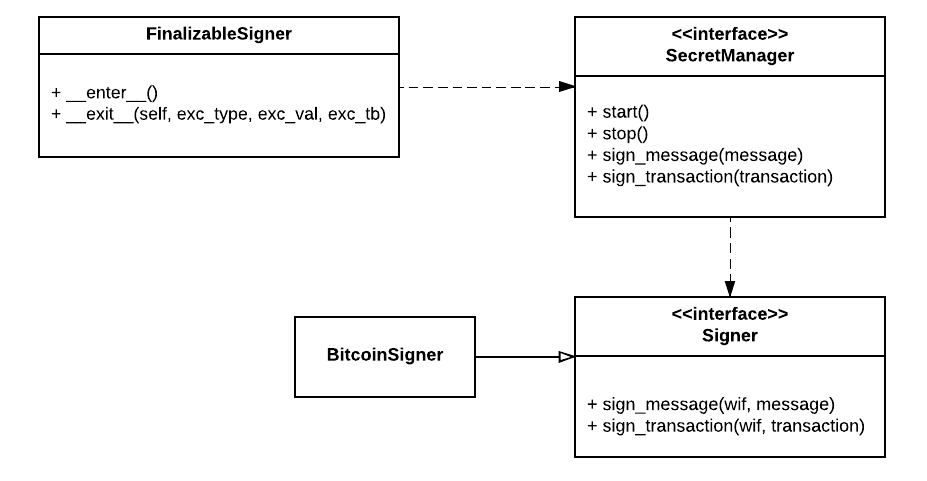
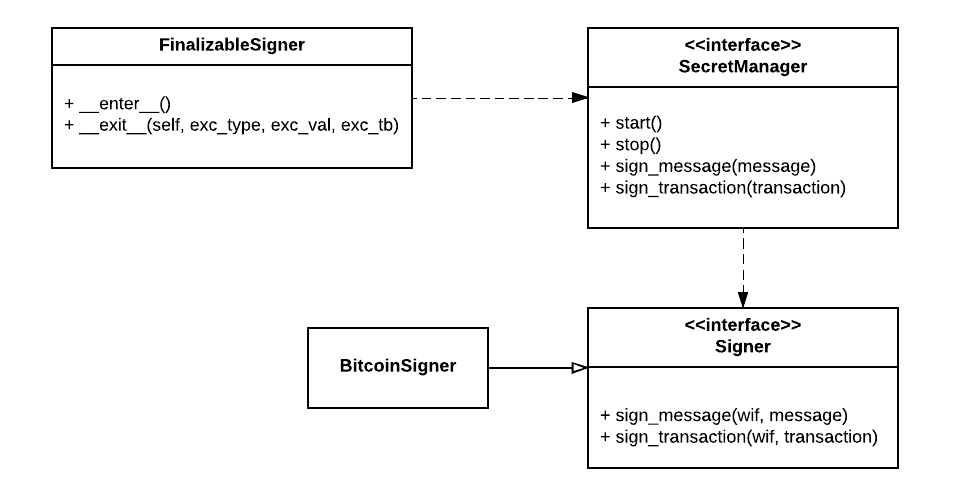
use pycoin b2h, h2b (#58)
* use pycoin b2h and h2b instead of custom hexlify, etc. Fix accidental image overwrite

* Version bump

diff --git a/tests/test_connectors.py b/tests/test_connectors.py
@@ -5,9 +5,9 @@ from bitcoin.core import COutPoint, lx, x, CScript
 from bitcoin.core.script import OP_EQUALVERIFY, OP_CHECKSIG, OP_DUP, OP_HASH160
 from bitcoin.wallet import P2PKHBitcoinAddress
 from mock import patch
+from pycoin.serialize import b2h
 
 from cert_issuer.connectors import BitcoindConnector
-from cert_issuer.helpers import hexlify
 
[2 lines of base64/hex data omitted]
@@ -61,7 +61,7 @@ class TestConnectors(unittest.TestCase):
         bc = BitcoindConnector('XTN')
         spendables = bc.spendables_for_address('mz7poFND7hVGRtPWjiZizcCnjf6wEDWjjT')
         self.assertEquals(len(spendables), 3)
-        self.assertEquals(hexlify(spendables[0].tx_hash),
+        self.assertEquals(b2h(spendables[0].tx_hash),
[1 lines of base64/hex data omitted]
         self.assertEquals(spendables[0].coin_value, 49000000)
         self.assertEquals(spendables[1].coin_value, 2750)

diff --git a/tests/test_tx_utils.py b/tests/test_tx_utils.py
@@ -2,12 +2,11 @@ import io
 import unittest
 
 import bitcoin
-from pycoin.serialize import h2b
+from pycoin.serialize import b2h, h2b
 from pycoin.tx import Spendable
 from pycoin.tx import Tx
 
 from cert_issuer import tx_utils
-from cert_issuer.helpers import hexlify
 from cert_issuer.tx_utils import TransactionCostConstants
 
[1 lines of base64/hex data omitted]
@@ -22,9 +21,9 @@ class TestTrxUtils(unittest.TestCase):
[1 lines of base64/hex data omitted]
         tx = tx_utils.create_trx(op_return_val, 3, 'mgAqW5ZCnEp7fjvpj8RUL3WxsBy8rcDcCi', tx_outs, [tx_input])
 
-        hextx = hexlify(tx.serialize())
+        hextx = b2h(tx.serialize())
 
-        tx_utils.verify_transaction(hextx, hexlify(op_return_val))
+        tx_utils.verify_transaction(hextx, b2h(op_return_val))
 
     def test_calculate_raw_tx_size(self):
         result = tx_utils.calculate_raw_tx_size(num_inputs=40, num_outputs=16)
@@ -49,7 +48,7 @@ class TestTrxUtils(unittest.TestCase):
                              b, 0)
         tx_outs = [tx_utils.create_transaction_output('mgAqW5ZCnEp7fjvpj8RUL3WxsBy8rcDcCi', 0.0000275)]
         tx = tx_utils.create_trx('TEST'.encode('utf-8'), 3, 'mgAqW5ZCnEp7fjvpj8RUL3WxsBy8rcDcCi', tx_outs, [tx_input])
-        hextx = hexlify(tx.serialize())
+        hextx = b2h(tx.serialize())
         self.assertEquals(hextx,
[1 lines of base64/hex data omitted]
 

diff --git a/cert_issuer/merkle_tree_generator.py b/cert_issuer/merkle_tree_generator.py
@@ -1,17 +1,18 @@
 import hashlib
 
 from chainpoint.chainpoint import MerkleTools
+from pycoin.serialize import h2b
 
 
-def hash_binary_data(data):
+def hash_byte_array(data):
     hashed = hashlib.sha256(data).hexdigest()
     return hashed
 
 
-def ensure_string(str_value):
-    if isinstance(str_value, str):
-        return str_value
-    return str_value.decode('utf-8')
+def ensure_string(value):
+    if isinstance(value, str):
+        return value
+    return value.decode('utf-8')
 
 
 class MerkleTreeGenerator(object):
@@ -20,22 +21,23 @@ class MerkleTreeGenerator(object):
 
     def populate(self, node_generator):
         """
-        Populate Merkle Tree with data from node_generator. This requires that node_generator yield string elements.
-        Adds it to the Merkle Tree (which hashes and hex encodes via the second True parameter)
+        Populate Merkle Tree with data from node_generator. This requires that node_generator yield byte[] elements.
+        Hashes, computes hex digest, and adds it to the Merkle Tree
         :param node_generator:
         :return:
         """
         for data in node_generator:
-            self.tree.add_leaf(data, True)
+            hashed = hash_byte_array(data)
+            self.tree.add_leaf(hashed)
 
     def get_blockchain_data(self):
         """
-        Finalize tree and return hex string to issue on blockchain
+        Finalize tree and return byte array to issue on blockchain
         :return:
         """
         self.tree.make_tree()
         merkle_root = self.tree.get_merkle_root()
-        return ensure_string(merkle_root)
+        return h2b(ensure_string(merkle_root))
 
     def get_proof_generator(self, tx_id):
         """

diff --git a/cert_issuer/certificate_handler.py b/cert_issuer/certificate_handler.py
@@ -18,7 +18,7 @@ class CertificateHandler(object):
         pass
 
     @abstractmethod
-    def get_data_to_issue(self, certificate_metadata):
+    def get_byte_array_to_issue(self, certificate_metadata):
         pass
 
     @abstractmethod
@@ -39,10 +39,10 @@ class CertificateV2Handler(CertificateHandler):
     def sign_certificate(self, signer, certificate_metadata):
         pass
 
-    def get_data_to_issue(self, certificate_metadata):
+    def get_byte_array_to_issue(self, certificate_metadata):
         certificate_json = self._get_certificate_to_issue(certificate_metadata)
         normalized = normalize_jsonld(certificate_json, detect_unmapped_fields=False)
-        return normalized
+        return normalized.encode('utf-8')
 
     def add_proof(self, certificate_metadata, merkle_proof):
         """
@@ -82,7 +82,7 @@ class CertificateBatchHandler(object):
     def prepare_batch(self):
         """
         Propagates exception on failure
-        :return: hex string to put on the blockchain
+        :return: byte array to put on the blockchain
         """
 
         # validate batch
@@ -103,7 +103,7 @@ class CertificateBatchHandler(object):
         :return:
         """
         for uid, metadata in self.certificates_to_issue.items():
-            data_to_issue = self.certificate_handler.get_data_to_issue(metadata)
+            data_to_issue = self.certificate_handler.get_byte_array_to_issue(metadata)
             yield data_to_issue
 
     def finish_batch(self, tx_id):

diff --git a/cert_issuer/transaction_handler.py b/cert_issuer/transaction_handler.py
@@ -2,9 +2,10 @@ import logging
 import random
 from abc import abstractmethod
 
+from pycoin.serialize import b2h
+
 from cert_issuer import tx_utils
 from cert_issuer.errors import InsufficientFundsError
-from cert_issuer.helpers import hexlify
 from cert_issuer.signer import FinalizableSigner
 
 # Estimate fees assuming worst case 3 inputs
@@ -76,7 +77,7 @@ class BitcoinTransactionHandler(TransactionHandler):
             raise InsufficientFundsError(error_message)
 
     def issue_transaction(self, op_return_bytes):
-        op_return_value = hexlify(op_return_bytes)
+        op_return_value = b2h(op_return_bytes)
         prepared_tx = self.create_transaction(op_return_bytes)
         signed_tx = self.sign_transaction(prepared_tx)
         self.verify_transaction(signed_tx, op_return_value)
@@ -107,7 +108,7 @@ class BitcoinTransactionHandler(TransactionHandler):
 
         tx = self.transaction_creator.create_transaction(self.tx_cost_constants, self.issuing_address, inputs,
                                                          op_return_bytes)
-        hex_tx = hexlify(tx.serialize())
+        hex_tx = b2h(tx.serialize())
         logging.info('Unsigned hextx=%s', hex_tx)
         prepared_tx = tx_utils.prepare_tx_for_signing(hex_tx, inputs)
         return prepared_tx

diff --git a/tests/test_certificate_handler.py b/tests/test_certificate_handler.py
@@ -1,6 +1,7 @@
 import unittest
 
 import mock
+from pycoin.serialize import b2h
 
 from cert_issuer.certificate_handler import CertificateBatchHandler, CertificateHandler
 
@@ -17,7 +18,7 @@ class TestCertificateHandler(unittest.TestCase):
                                                             certificate_handler=DummyCertificateHandler())
         certificate_batch_handler.set_certificates_in_batch(certificates_to_issue)
         result = certificate_batch_handler.prepare_batch()
[2 lines of base64/hex data omitted]
 
 
 class DummyCertificateHandler(CertificateHandler):
@@ -30,9 +31,9 @@ class DummyCertificateHandler(CertificateHandler):
     def sign_certificate(self, signer, certificate_metadata):
         pass
 
-    def get_data_to_issue(self, certificate_metadata):
+    def get_byte_array_to_issue(self, certificate_metadata):
         self.counter += 1
-        return str(self.counter)
+        return str(self.counter).encode('utf-8')
 
     def add_proof(self, certificate_metadata, merkle_proof):
         pass

diff --git a/cert_issuer/connectors.py b/cert_issuer/connectors.py
@@ -9,7 +9,7 @@ import bitcoin.rpc
 import requests
 from bitcoin.core import CTransaction
 from cert_schema import Chain
-from pycoin.serialize import b2h
+from pycoin.serialize import b2h, b2h_rev, h2b
 from pycoin.services import providers
 from pycoin.services.blockr_io import BlockrioProvider
 from pycoin.services.insight import InsightProvider
@@ -17,8 +17,6 @@ from pycoin.services.providers import service_provider_methods
 from pycoin.tx import Spendable
 
 from cert_issuer.errors import ConnectorError, BroadcastError
-from cert_issuer.helpers import hexlify
-from cert_issuer.helpers import unhexlify
 
 BROADCAST_RETRY_INTERVAL = 30
 
@@ -106,10 +104,10 @@ class BitcoindConnector(object):
 
     def broadcast_tx(self, transaction):
         as_hex = transaction.as_hex()
-        transaction = CTransaction.deserialize(unhexlify(as_hex))
+        transaction = CTransaction.deserialize(h2b(as_hex))
         tx_id = bitcoin.rpc.Proxy().sendrawtransaction(transaction)
         # reverse endianness for bitcoind
-        return hexlify(bytearray(tx_id)[::-1])
+        return b2h_rev(tx_id)
 
     def spendables_for_address(self, address):
         """

diff --git a/tests/test_merkle_tree_generator.py b/tests/test_merkle_tree_generator.py
@@ -1,5 +1,7 @@
 import unittest
 
+from pycoin.serialize import b2h
+
 from cert_issuer.merkle_tree_generator import MerkleTreeGenerator
 
 
@@ -9,15 +11,15 @@ def get_test_data_generator():
     :return:
     """
     for num in range(1, 4):
-        yield str(num)
+        yield str(num).encode('utf-8')
 
 
 class TestMerkleTreeGenerator(unittest.TestCase):
     def test_generate(self):
         merkle_tree_generator = MerkleTreeGenerator()
         merkle_tree_generator.populate(get_test_data_generator())
-        binary_data = merkle_tree_generator.get_blockchain_data()
[1 lines of base64/hex data omitted]
+        byte_array = merkle_tree_generator.get_blockchain_data()
[1 lines of base64/hex data omitted]
 
     def test_proofs(self):
         merkle_tree_generator = MerkleTreeGenerator()

diff --git a/cert_issuer/helpers.py b/cert_issuer/helpers.py
@@ -1,23 +1,15 @@
-import binascii
 import collections
 import logging
 import os
 import shutil
-import sys
 
 import glob2
+from pycoin.serialize import b2h, h2b
 
 from cert_issuer.errors import NoCertificatesFoundError
 
-unhexlify = binascii.unhexlify
-hexlify = binascii.hexlify
-if sys.version > '3':
-    # returns bytes
-    def unhexlify(hex_string): return binascii.unhexlify(hex_string.encode('utf8'))
-
-
-    # returns string
-    def hexlify(hex_bytes): return binascii.hexlify(hex_bytes).decode('utf8')
+unhexlify = h2b
+hexlify = b2h
 
 UNSIGNED_CERTIFICATES_DIR = 'unsigned_certificates'
 SIGNED_CERTIFICATES_DIR = 'signed_certificates'

diff --git a/cert_issuer/issuer.py b/cert_issuer/issuer.py
@@ -4,7 +4,6 @@ Base class for building blockchain transactions to issue Blockchain Certificates
 import logging
 
 from cert_issuer.errors import BroadcastError
-from cert_issuer.helpers import unhexlify
 
 MAX_TX_RETRIES = 5
 
@@ -21,8 +20,7 @@ class Issuer:
         :return:
         """
 
-        op_return = self.certificate_batch_handler.prepare_batch()
-        op_return_bytes = unhexlify(op_return)
+        op_return_bytes = self.certificate_batch_handler.prepare_batch()
 
         for attempt_number in range(0, self.max_retry):
             try:

diff --git a/cert_issuer/__init__.py b/cert_issuer/__init__.py
@@ -1,1 +1,1 @@
-__version__ = '2.0.5'
+__version__ = '2.0.6'

diff --git a/README.md b/README.md
@@ -196,14 +196,14 @@ extracting the data to issue on the blockchain, and handling the blockchain tran
 - `prepare_batch` 
     - performs the preparatory steps on certificates in the batch, including validation of the schema and forming the 
     data that will go on the blockchain. Certificate-level details are handled by `CertificateHandler`s
-    - returns the hex string that will go on the blockchain
+    - returns the hex byte array that will go on the blockchain
 - `finish_batch` ensures each certificate is updated with the blockchain transaction information (and proof in general)
 
 `CertificateHandler` is responsible for reading from and updating a specific certificate (identified by certificate_metadata). 
 It is used exclusively by `CertificateBatchHandler` to handle certificate-level details:
 - `validate`: ensure the certificate is well-formed
 - `sign`: (currently unused)
-- `get_data_to_issue`: return string that will be hashed and added to the Merkle Tree
+- `get_byte_array_to_issue`: return byte array that will be hashed, hex-digested and added to the Merkle Tree
 - `add_proof`: associate a a proof with a certificate (in the current implementation, the proof is embedded in the file)
 
 `TransactionHandler` deals with putting the data on the blockchain. Currently only a Bitcoin implementation exists
